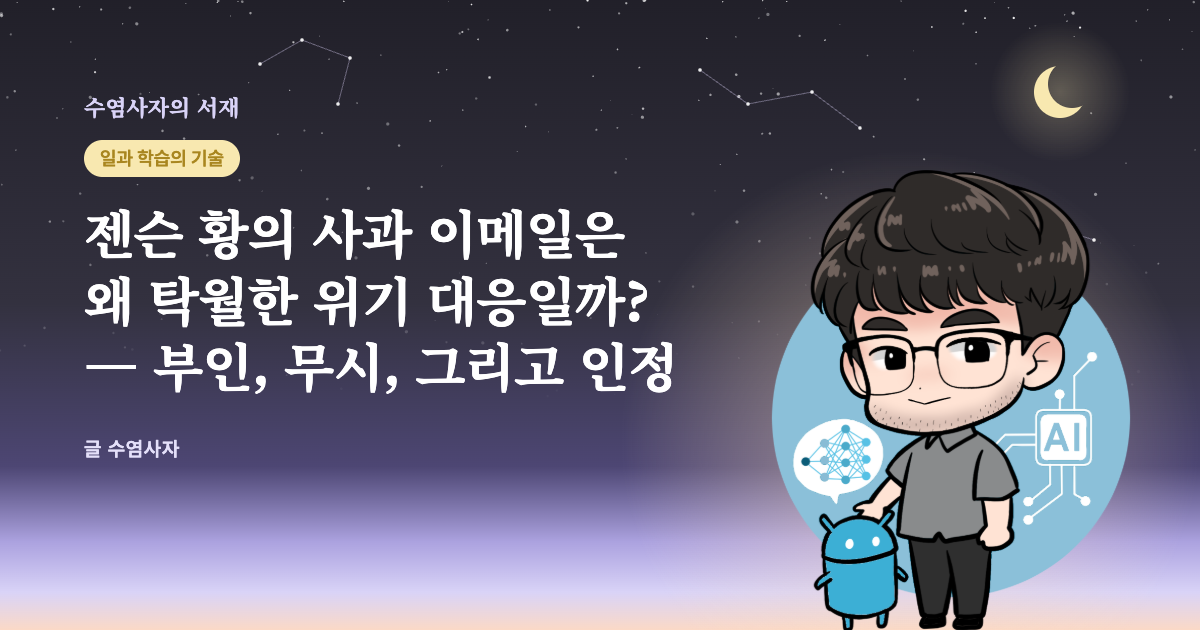
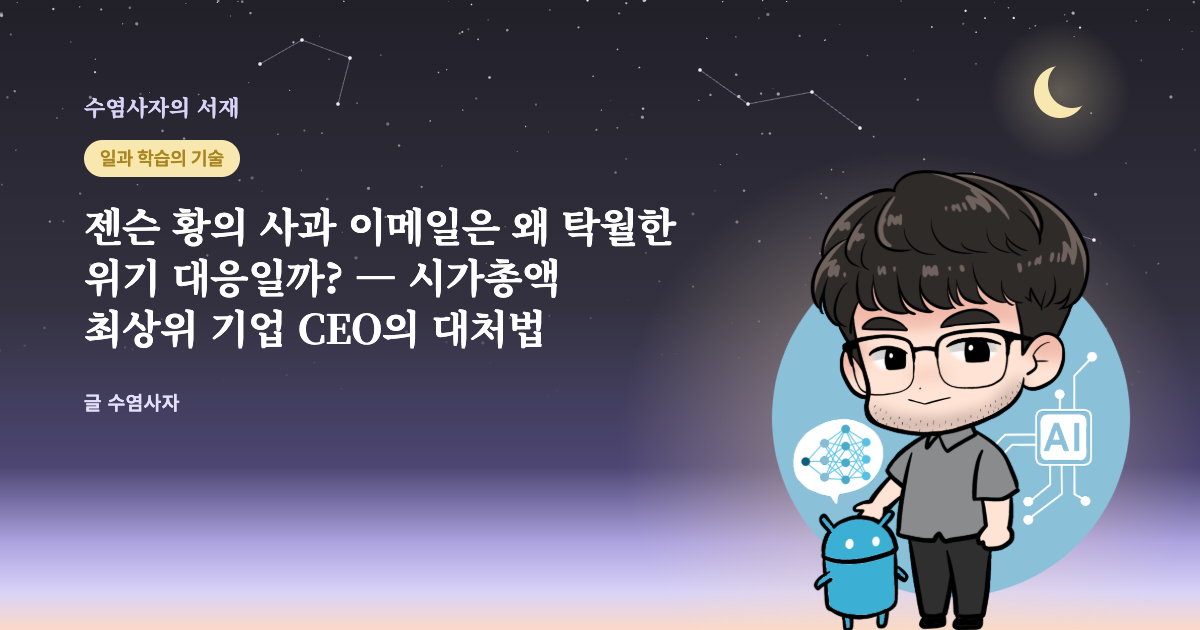
post(jensen-huang-apology): 사용자 편집 반영·노란 상자 삭제·제목 맞춤·줄임말 풀기
Claude-Session: https://claude.ai/code/session_01J36DQQsi1iZDy94NMGj8jH

Changed region(s): [[0.0617, 0.3317, 0.5858, 0.6635], [0.0617, 0.6937, 0.1542, 0.7238]]

diff --git a/posts/jensen-huang-apology/post.html b/posts/jensen-huang-apology/post.html
@@ -3,7 +3,7 @@
 <head>
 <meta charset="utf-8">
 <meta name="viewport" content="width=device-width, initial-scale=1">
-<title>젠슨 황의 사과 이메일은 왜 탁월한 위기 대응일까? — 부인, 무시, 그리고 인정</title>
+<title>젠슨 황의 사과 이메일은 왜 탁월한 위기 대응일까? — 시가총액 최상위 기업 CEO의 대처법</title>
 <link rel="stylesheet" href="https://fonts.googleapis.com/css2?family=Noto+Sans+KR:wght@400;700;800&family=Noto+Serif+KR:wght@700;900&display=swap">
 <style>
   /* 단일 칼럼 롱폼 해설, 본문 폭 약 65자 */
@@ -68,7 +68,7 @@
 <body>
 <article>
 
-<h1>젠슨 황의 사과 이메일은 왜 탁월한 위기 대응일까? — 부인, 무시, 그리고 인정</h1>
+<h1>젠슨 황의 사과 이메일은 왜 탁월한 위기 대응일까? — 시가총액 최상위 기업 CEO의 대처법</h1>
 <div class="meta">2026-11-10 · 약 9분 분량 · 글 수염사자</div>
 
 <!-- 1. 도입 -->
@@ -79,8 +79,8 @@
 
 <!-- 2. 사실관계 -->
 <h2>무슨 일이 있었나?</h2>
-<p>2026년 10월 29일, 뉴욕타임스(The New York Times)는 미 정보당국이 싱가포르 데이터센터 기업 메가스피드(Megaspeed)의 임원 앨리스 황(중국명 황러)을 중국 정부에 정보를 넘긴 인물로 판단했고, 그녀가 엔비디아(NVIDIA) 최고경영자(CEO) 젠슨 황과 가까운 관계를 맺었다고 보도했습니다. 두 사람은 2024년 6월 타이베이의 한 바에서, 2025년 5월에는 같은 도시의 식당을 나서다 함께 사진에 찍혔습니다<sup class="fn"><a id="cite-1" href="#ref-1">[1]</a></sup>. 둘은 친척이 아닙니다.</p>
-<p>같은 날 젠슨 황은 블룸버그(Bloomberg) 인터뷰에서 둘의 교류는 메가스피드와 관련된 것이었고 완전히 정상적이었다고 말했습니다<sup class="fn"><a id="cite-2" href="#ref-2">[2]</a></sup>. 그가 처음 고른 길은 <strong>부인</strong>이었습니다.</p>
+<p>2026년 10월 29일, 뉴욕타임스(The New York Times)는 미 정보당국이 싱가포르 데이터센터 기업 메가스피드(Megaspeed)의 임원 앨리스 황(중국명 황러)을 중국 정부에 정보를 넘긴 인물로 판단했고, 그녀가 엔비디아(NVIDIA) 최고경영자(CEO) 젠슨 황과 가까운 관계를 맺었다고 보도했습니다. 두 사람은 2024년 6월 타이베이의 한 바에서, 2025년 5월에는 같은 도시의 식당을 나서다 함께 사진에 찍혔습니다<sup class="fn"><a id="cite-1" href="#ref-1">[1]</a></sup>. </p>
+<p>같은 날 젠슨 황은 블룸버그(Bloomberg) 인터뷰에서 둘의 교류는 비즈니스와 관련된 것이었고 완전히 정상적이었다고 말했습니다<sup class="fn"><a id="cite-2" href="#ref-2">[2]</a></sup>. 그가 처음 고른 방법은 <strong>'부인'</strong>이었습니다.</p>
 <p>상황은 빠르게 조여 왔습니다. 11월 4일, 하원 외교·중국특위·정보위원회 세 위원장이 11월 18일 비공개 브리핑에 나와 달라는 서한을 보냈고, 11월 11일까지 답을 달라고 했습니다. 소환장이 아닌 자발적 출석 요청이었습니다<sup class="fn"><a id="cite-3" href="#ref-3">[3]</a></sup>. 11월 6일에는 파이낸셜타임스(Financial Times)가 정보에 기반한 미 정부 메모가 두 사람의 관계를 연인 관계로 기술했다고 보도했습니다<sup class="fn"><a id="cite-4" href="#ref-4">[4]</a></sup>.</p>
 <p>그리고 11월 8일 일요일, 그는 직원 전체에게 이메일을 보냈습니다. 아내에게 충실하지 못했고, 변명의 여지가 없으며, 깊이 사죄한다는 내용이었습니다<sup class="fn"><a id="cite-5" href="#ref-5">[5]</a></sup>. 같은 날 이사회는 독립 이사들로 구성된 위원회가 외부 변호인과 함께 조사하겠다고 발표했습니다<sup class="fn"><a id="cite-6" href="#ref-6">[6]</a></sup>.</p>
 
@@ -123,14 +123,14 @@
 </g>
 <text x="24" y="542" font-size="12" fill="#6E6B7B">자료: [1]–[6] 보도·원문으로 재구성</text>
 </svg>
-<figcaption>젠슨 황은 10월 29일 관계를 정상적인 사업 교류라고 부인했지만, 하원 브리핑 요청과 정부 메모 보도가 이어지자 11월 8일 직원 이메일로 불륜을 인정했고, 그 뒤로 회신 기한과 실적 발표, 비공개 브리핑 요청일이 줄지어 있었습니다.</figcaption>
+<figcaption>젠슨 황은 10월 29일 관계를 정상적인 사업 교류라고 부인했지만, 하원 브리핑 요청과 정부 메모 보도가 이어지자, 결국 11월 8일 직원 이메일로 불륜을 인정했고, 그 뒤로 회신 기한과 실적 발표, 비공개 브리핑 요청일이 줄지어 있었습니다.</figcaption>
 </figure>
 
-<p>여기서 분명히 해둘게요. 앨리스 황이 정보요원이라는 것은 익명 소식통이 전한 정보당국의 판단이며, 그녀가 무엇을 빼냈는지는 공개 보도로 확인되지 않았습니다. 중국 외교부는 근거 없는 추측이라고 반박했습니다<sup class="fn"><a id="cite-7" href="#ref-7">[7]</a></sup>. 이 글이 다루는 것은 첩보 사건의 진상이 아니라, 그 한복판에 선 CEO가 고른 대응 방식입니다.</p>
+<p>앨리스 황이 정보요원이라는 것은 익명 소식통이 전한 정보당국의 판단이며, 그녀가 무엇을 빼냈는지는 공개 보도로 확인되지 않았습니다. 중국 외교부는 근거 없는 추측이라고 반박했습니다<sup class="fn"><a id="cite-7" href="#ref-7">[7]</a></sup>. 이 글에서는 첩보 사건의 진상이 아니라 위기상황에서 CEO가 선택한 대응 방법에 대해 다루겠습니다.</p>
 
 <!-- 3. 세 갈래 길 -->
 <h2>위기에 처한 CEO에게는 어떤 길이 있을까?</h2>
-<p>스캔들을 맞은 리더의 선택지는 크게 셋입니다. 끝까지 부인하기, 무시하고 버티기, 빨리 인정하고 사과하기. 흔히 이 셋을 "얼마나 솔직한가"의 차이로 봅니다. 그런데 질문을 바꿔야 합니다. 솔직함의 정도가 아니라, <strong>이야기의 주도권을 누가 쥐느냐</strong>의 차이입니다.</p>
+<p>스캔들을 맞은 리더의 선택지는 크게 셋입니다. 끝까지 부인하기(Denial), 무시하고 버티기(Evasion), 빨리 인정하고 사과하기(Admission). 흔히 이 셋을 솔직함의 차이로 생각하지만, 실은 <strong>"이야기의 주도권을 누가 쥐느냐"</strong>의 차이입니다.</p>
 
 <figure>
 <svg xmlns="http://www.w3.org/2000/svg" viewBox="0 0 420 600" width="100%" role="img" aria-labelledby="t-2 d-2" font-family="'Pretendard','Noto Sans KR','Noto Sans CJK KR','Apple SD Gothic Neo',sans-serif">
@@ -164,51 +164,50 @@
 <figcaption>끝까지 부인하거나 무시하면 이야기의 주도권이 폭로하는 쪽에 넘어가고 시간이 갈수록 위험이 쌓이지만, 스스로 인정하면 당장의 평판 손상을 감수하는 대신 이야기를 직접 정의할 수 있습니다.</figcaption>
 </figure>
 
-<p>상처에 비유하면 쉽습니다. 부인은 곪은 상처에 반창고를 붙이는 일이고, 무시는 소매로 가리는 일입니다. 인정은 아프더라도 째고 고름을 빼는 일입니다. 당장은 세 번째가 가장 아파 보이지만, 시간이 지나 덧나는 쪽은 앞의 둘입니다.</p>
-<p>젠슨 황의 경우 두 번째 길은 사실상 닫혀 있었습니다. 하원 세 위원장이 날짜를 박아 브리핑을 요청한 이상, 언젠가는 그 방에서 입을 열어야 했습니다. 남은 것은 부인을 이어갈지, 인정으로 갈아탈지였습니다. 그는 갈아탔습니다.</p>
+<p>사안에 따라 끝까지 부인하기나, 무시하고 버티기가 유리한 경우가 있습니다. 그러나, 무겁고 위중한 사안일 수록 인정하고 사과하기가 낫다고 합니다.</p>
+<p>젠슨 황의 경우 두 번째 길은 사실상 닫혀 있었습니다. 하원 세 위원장이 날짜를 박아 브리핑을 요청한 이상, 언젠가는 그 방에서 입을 열어야 했습니다. 남은 것은 계속 부인할 것인지 아니면 공개사과로 입장을 바꿀 것인지였습니다. 결국, 그는 노선을 바꿨습니다.</p>
 
 <!-- 4. 원리 -->
 <h2>왜 스스로 털어놓는 쪽이 이길까?</h2>
-<p>흔히 "솔직해서 좋게 봐 준다"고들 합니다. 틀린 말은 아닌데, 이것만으로는 설명이 부족합니다. 연구가 보여 주는 핵심은 <strong>같은 나쁜 소식이라도 누구의 입에서 먼저 나왔느냐</strong>에 따라 사람들의 판단이 달라진다는 점입니다.</p>
+<p>흔히 솔직해서 좋게 봐 준다고들 합니다. 틀린 말은 아닌데, 이것만으로는 설명이 부족합니다. 관련 연구가 보여 주는 핵심은 <strong>같은 나쁜 소식이라도 누구의 입에서 먼저 나왔느냐</strong>에 따라 사람들의 판단이 달라진다는 점입니다.</p>
 <p>2005년 아판과 로스코스-이월슨은 위기 정보를 조직이 먼저 공개한 경우와 다른 쪽이 먼저 공개한 경우를 실험으로 비교했습니다. 스스로 먼저 밝힌 조직이 더 높은 신뢰도 평가를 받았고, 경로 분석에서는 선수 치기가 위기를 덜 심각하게 느끼게 하고 해당 제품의 구매 의향을 높이는 쪽으로 이어졌습니다<sup class="fn"><a id="cite-8" href="#ref-8">[8]</a></sup>.</p>
 <p>제품을 파는 회사에게 이 대목은 각별합니다. 신뢰는 감정이 아니라 매출로 이어지는 변수라는 뜻이니까요. 실제로 뉴욕타임스 보도 다음 날 엔비디아 주가는 약 3% 떨어졌습니다<sup class="fn"><a id="cite-9" href="#ref-9">[9]</a></sup>. 의혹이 길게 끌수록 고객과 투자자가 치르는 불확실성 비용도 길어집니다.</p>
 
-<div class="key">선수 치기의 힘은 솔직함 자체보다 '이야기를 누가 처음 정의하느냐'에서 나옵니다. 남이 먼저 꺼내면 그 이야기는 폭로가 되고, 내가 먼저 꺼내면 고백이 됩니다. 같은 사실이 다른 무게를 갖습니다.</div>
 
-<p>다만 미리 말씀드려야 할 게 있습니다. 이 효과는 생각만큼 크지 않습니다. 2025년 여섯 개 실험 자료 1,573명분을 묶어 분석한 연구는 고백의 이유나 발견 경위를 함께 밝히면 신뢰도가 더 올라간다는 것을 보였지만, 그 효과 크기는 작았고(신뢰성에 대한 상관계수 약 0.13) 선수 치기 자체의 효과도 비슷한 크기였다고 적었습니다. 전문성에 대한 평가까지는 나아지지 않았습니다<sup class="fn"><a id="cite-10" href="#ref-10">[10]</a></sup>. 고백이 모든 것을 되돌리는 마법은 아니라는 뜻입니다. 그래도 같은 손실이라면 작게 끝내는 쪽이 낫습니다.</p>
+<p>물론, 고백한다고 만사가 해결되는 것은 아닙니다. 2025년 여섯 개 실험 자료 1,573명분을 묶어 분석한 연구는 고백의 이유나 발견 경위를 함께 밝히면 신뢰도가 더 올라간다는 것을 보였지만, 그 효과 크기는 작았고(신뢰성에 대한 상관계수 약 0.13) 선수 치기 자체의 효과도 비슷한 크기였다고 적었습니다. 전문성에 대한 평가까지는 나아지지 않았습니다<sup class="fn"><a id="cite-10" href="#ref-10">[10]</a></sup>. 고백이 모든 것을 되돌리는 마법은 아니라는 뜻입니다. 그래도 같은 손실이라면 작게 끝내는 쪽이 낫겠지요.</p>
 
 <!-- 5. 이메일 해부 -->
 <h2>그 이메일에는 무엇이 들어 있었을까?</h2>
-<p>이메일 원문은 엔비디아 뉴스룸에 그대로 공개돼 있습니다<sup class="fn"><a id="cite-5b" href="#ref-5">[5]</a></sup>. 구조를 뜯어보면 다섯 덩어리입니다.</p>
+<p>이메일 원문은 엔비디아 뉴스룸에 그대로 공개돼 있습니다<sup class="fn"><a id="cite-5b" href="#ref-5">[5]</a></sup>. 구조를 살피면 크게 다섯 가지로 되어 있습니다.</p>
 <div class="table-wrap"><table>
   <thead><tr><th>순서</th><th>누구에게</th><th>무엇을 말했나</th></tr></thead>
   <tbody>
     <tr><td>1</td><td>모두에게</td><td>아내에게 충실하지 못했다, 변명의 여지가 없다</td></tr>
     <tr><td>2</td><td>아내와 가족에게</td><td>사과로 되돌릴 수 없음을 알고, 신뢰를 되찾고 싶다</td></tr>
     <tr><td>3</td><td>동료·이사회·주주에게</td><td>책임을 다하지 못했다, 신뢰를 다시 얻겠다</td></tr>
-    <tr class="hl"><td>4</td><td>국가안보 우려에 대해</td><td>이사회 조사를 지지하고 전면 협조, 미국인인 것이 자랑스럽다</td></tr>
+    <tr class="hl"><td>4</td><td>"국가안보 우려에 대해"</td><td>이사회 조사를 지지하고 전면 협조, "미국인인 것이 자랑스럽다"</td></tr>
     <tr><td>5</td><td>다시 모두에게</td><td>가족에게는 책임이 없다, 사생활을 지켜 달라</td></tr>
   </tbody>
 </table></div>
 <div class="key">이 표에서 읽어야 할 것은 무엇을 말했느냐보다 무엇을 말하지 않았느냐입니다. 상대의 이름도, 중국이라는 단어도 없습니다. 사적인 잘못은 1~3번에서 전부 끌어안고, 공적인 의혹은 4번 한 문단에 따로 떼어 놓았습니다.</div>
 
-<p>상대가 앨리스 황이라는 사실은 이메일이 아니라 이사회에 전달됐다고 뉴욕타임스는 보도했습니다<sup class="fn"><a id="cite-11" href="#ref-11">[11]</a></sup>. 직원과 대중에게는 불륜이라는 사적 사실만, 조사 주체인 이사회에는 구체적 신원을. 정보를 누구에게 어디까지 줄지 층을 나눈 셈입니다.</p>
+<p>상대가 앨리스 황이라는 사실은 이메일이 아니라 이사회에 전달됐다고 뉴욕타임스는 보도했습니다<sup class="fn"><a id="cite-11" href="#ref-11">[11]</a></sup>. 직원과 대중에게는 불륜이라는 사실만, 조사 주체인 이사회에는 구체적 신원을 알렸지요. 정보를 누구에게 어디까지 줄지 구별한 셈입니다.</p>
 
 <h3>"미국인인 것이 자랑스럽다"는 한 문장</h3>
 <blockquote class="quote">
   <p>나는 미국인인 것이 자랑스럽고 감사합니다.</p>
   <cite>— 젠슨 황, 엔비디아 직원 대상 이메일, 2026년 11월 8일 (번역)<sup class="fn"><a id="cite-5c" href="#ref-5">[5]</a></sup></cite>
 </blockquote>
-<p>불륜 사과문에 어울리는 문장은 아닙니다. 그런데 이 문장이 놓인 자리를 보면 의도가 읽힙니다. 가족 문단이 아니라 국가안보 문단의 마지막입니다. 바로 앞에서 그는 나라와 회사를 사랑하고, 엔비디아를 지키며 미국의 국가안보를 지지하겠다고 썼습니다.</p>
-<p>필자는 이 문장을 <strong>사적인 실패와 충성의 문제 사이에 선을 긋는 장치</strong>로 읽습니다. 그는 남편으로서 실패했다고 인정했습니다. 하지만 그 인정이 "그러니 국가에도 불충했을 것"이라는 추론으로 번지는 것을 이 한 문장으로 막아섭니다. 대만에서 태어나 미국에서 자란 CEO가, 중국 정보요원 의혹 인물과의 관계를 인정하는 바로 그 글에서 자신의 정체성을 분명히 해 둔 것입니다. 일주일 뒤 그를 기다리는 사람들이 하원 정보위원회 위원장들이라는 점을 떠올리면, 이 문장의 첫 번째 독자가 누구인지도 짐작할 수 있습니다.</p>
-<p>물론 이것은 해석입니다. 이메일 어디에도 의도는 적혀 있지 않습니다. 하지만 사과문은 한 단어 한 단어가 검토를 거쳐 나가는 글이고, 그 안에서 맥락에 어긋나 보이는 문장일수록 가장 공들여 넣은 문장일 가능성이 높습니다.</p>
+<p>약간 뜬금 없는 문장입니다. 불륜 사과문에 어울리는 내용이 아닙니다. 이 말은 왜 중요할까요? 그는 나라와 회사를 사랑하고, 엔비디아를 지키며 미국의 국가안보를 지지하겠다고 썼습니다.</p>
+<p>필자는 이 문장을 <strong>사적인 실패와 국가 안보 문제 사이에 선을 긋는 장치</strong>로 읽습니다. 그는 남편으로서 실패했다고 인정했습니다. 하지만 미국에 대해서도 소홀했을 거라는 추론을 이 문장으로 잘라냅니다. 미국 시가총액 최상위 기업의 CEO가, 중국과 연루 의혹 인물과의 불륜을 인정하는 바로 그 글에서 자신의 정체성을 정의하고 있습니다. 일주일 뒤 그를 기다리는 사람들이 하원 정보위원회 위원장들이라는 점을 떠올리면 의미심장합니다.</p>
+<p>물론 이것은 해석일 뿐입니다. 이메일 어디에도 의도는 적혀 있지 않습니다. 하지만 사과문은 한 단어 한 단어가 검토를 거쳐 나가는 글이고, 그 안에서 맥락에 어긋나 보이는 문장일수록 가장 공들여 넣은 문장일 가능성이 높습니다.</p>
 
 <!-- 6. 남는 질문 -->
-<h2>그래도 남는 질문은 무엇일까?</h2>
-<p>공정하려면 약점도 함께 봐야 합니다.</p>
+<h2>그래도 아쉬운 점이 있다면?</h2>
+<p>그도 완벽하지는 않았습니다.</p>
 <p>첫째, <strong>그는 처음부터 세 번째 길을 고르지 않았습니다.</strong> 열흘 전 그는 부인했습니다. 앞의 2025년 연구는 선수 치기를 제3자가 밝히기 전에 해야 하는, 시간에 민감한 행동으로 정의합니다<sup class="fn"><a id="cite-10b" href="#ref-10">[10]</a></sup>. 연인 관계라는 핵심은 이미 파이낸셜타임스 보도로 세상에 나온 뒤였습니다. 엄밀히 말해 이것은 교과서적 선수 치기가 아니라, 의회 앞에 서기 전 마지막으로 남은 '자기 입으로 말할 기회'를 잡은 것입니다.</p>
-<p>둘째, 같은 연구는 왜 고백하는지를 밝히면 신뢰가 더 올라간다고 봤는데, 이메일은 그 부분을 비워 두었습니다. 상대를 밝히지 않은 것은 사생활 보호로도, 법적 신중함으로도 읽히지만, 독자에게는 여전히 빈칸으로 남습니다.</p>
-<p>셋째, 이사회는 조사를 시작하는 성명에서 국가안보나 회사 기밀이 침해됐다고 볼 이유가 없고 젠슨 황을 신뢰한다고 함께 밝혔습니다<sup class="fn"><a id="cite-6b" href="#ref-6">[6]</a></sup>. 조사를 시작하면서 결론의 방향을 미리 보여 준 셈이라, 이 조사가 얼마나 독립적일지는 지켜봐야 합니다.</p>
+<p>둘째, 같은 연구는 왜 고백하는지를 밝히면 신뢰가 더 올라간다고 봤는데, 이메일은 그 부분을 비워 두었습니다. 물론 상대를 밝히지 않은 것은 사생활 보호로도, 법적 신중함으로 볼 여지도 있긴 합니다.</p>
+<p>셋째, 이사회는 조사를 시작하는 성명에서 국가안보나 회사 기밀이 침해됐다고 볼 이유가 없고 젠슨 황을 신뢰한다고 함께 밝혔습니다<sup class="fn"><a id="cite-6b" href="#ref-6">[6]</a></sup>. 조사를 시작하면서 결론의 방향을 미리 보여 준 셈이라, 결론을 미리 정해 둔 조사라는 인상을 지우기 어렵습니다.</p>
 
 <div class="caution">이 사안은 진행 중입니다. 앨리스 황과 메가스피드, 엔비디아 누구도 기소되지 않았고<sup class="fn"><a id="cite-3b" href="#ref-3">[3]</a></sup>, 정보 유출 여부도 확인되지 않았습니다. 위기 대응이 영리했다는 평가는 조사 결과와 별개입니다.</div>
 
@@ -216,16 +215,15 @@
 <section class="expert-note">
   <h2>필자 한마디</h2>
   <blockquote>
-    <p>잘못을 인정하는 일이 지는 일처럼 느껴지는 건 자연스럽습니다. 인정하는 순간 상처가 눈에 보이게 되니까요. 그래서 많은 사람이, 많은 조직이 반창고를 고릅니다.</p>
-    <p><strong>"인정은 상처를 키우지 않습니다. 상처를 남이 정의하게 두지 않을 뿐입니다."</strong> 젠슨 황의 이메일이 탁월했던 이유는 고백 자체보다, 고백하면서도 어디까지가 자기 잘못이고 어디부터는 아닌지를 스스로 그었다는 데 있습니다.</p>
-    <p>그는 첫 번째 길에서 출발했습니다. 그건 실수였습니다. 하지만 실수한 리더와 실수를 끝까지 지키는 리더는 다릅니다. 방향을 트는 데 열흘이 걸렸다는 것, 그리고 그 열흘을 넘기지 않았다는 것이 이 이야기의 핵심입니다.</p>
+    <p>잘못을 인정하는 일이 지는 일처럼 느껴지는 건 자연스럽습니다. 인정하는 순간 상처가 눈에 보이게 되니까요. 그래서 많은 사람이, 많은 조직이 미봉책을 선택합니다.</p>
+    <p><strong>"인정은 잘못을 키우지 않습니다. 오히려 잘못을 남이 정의하게 두지 않습니다."</strong> 젠슨 황의 이메일이 탁월했던 이유는 고백 자체보다, 고백하면서도 어디까지가 자기 잘못이고 어디부터는 아닌지를 스스로 선 그었다는 점입니다.</p>
+    <p>그는 '부인하기'로 출발했습니다. 그건 실수였습니다. 하지만 실수한 리더와 실수를 끝까지 지키는 리더는 다릅니다. </p>
   </blockquote>
 </section>
 
 <!-- 9. 정리 -->
 <hr>
-<p>정리하자면 이렇습니다. 위기에 처한 리더의 선택지는 부인, 무시, 인정이고, 셋의 진짜 차이는 이야기의 주도권을 누가 쥐느냐에 있습니다. 스스로 먼저 밝힌 쪽이 더 높은 신뢰를 얻는다는 연구가 있고, 그 효과는 크지 않지만 분명합니다. 젠슨 황은 부인에서 출발했지만 의회 앞에 서기 전에 인정으로 갈아탔고, 사적인 잘못과 공적인 충성의 문제를 한 통의 이메일 안에서 정교하게 갈라 놓았습니다.</p>
-<p>한 가지 질문을 남깁니다. 지금 내가 덮어 두고 있는 작은 실수는, 결국 누구의 입에서 처음 나오게 될까요?</p>
+<p>위기에 처한 리더의 선택지는 부인, 무시, 인정이고, 셋의 진짜 차이는 이야기의 주도권을 누가 쥐느냐에 있습니다. 스스로 먼저 밝힌 쪽이 더 높은 신뢰를 얻는다는 연구가 있고, 그 효과는 크지 않지만 분명합니다. 젠슨 황은 부인에서 출발했지만 의회 앞에 서기 전에 인정으로 노선을 갈아탔고, 사적인 잘못과 공적인 충성의 문제를 한 통의 이메일 안에서 정교하게 갈랐습니다.</p>
 
 <!-- 11. 꼬리 -->
 <p class="disclaimer">이 글은 2026년 11월 10일까지 공개된 원문과 보도를 바탕으로 한 개인적 분석입니다. 첩보 의혹은 익명 소식통이 전한 정보당국의 판단으로 확정된 사실이 아니며, 관련 당사자들은 이를 부인하고 있습니다. 특정 기업에 대한 투자 판단의 근거로 삼지 마세요.</p>
